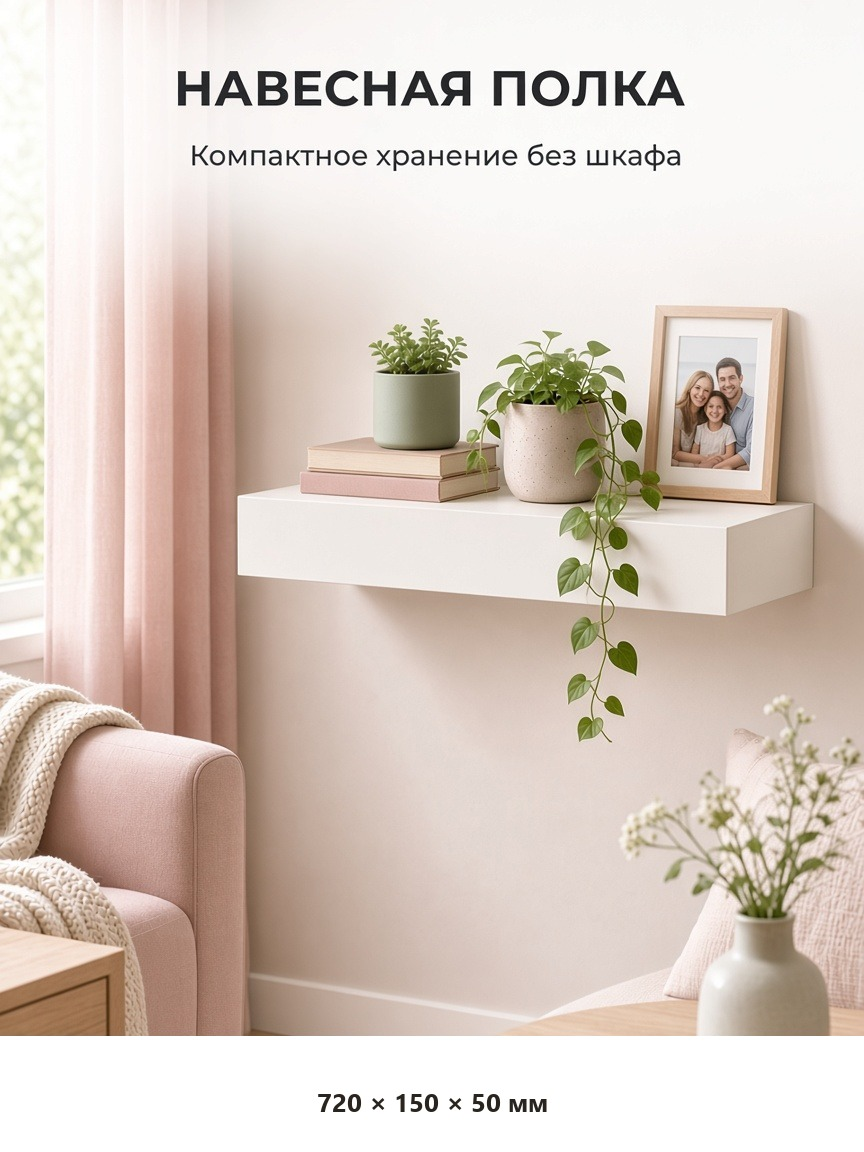
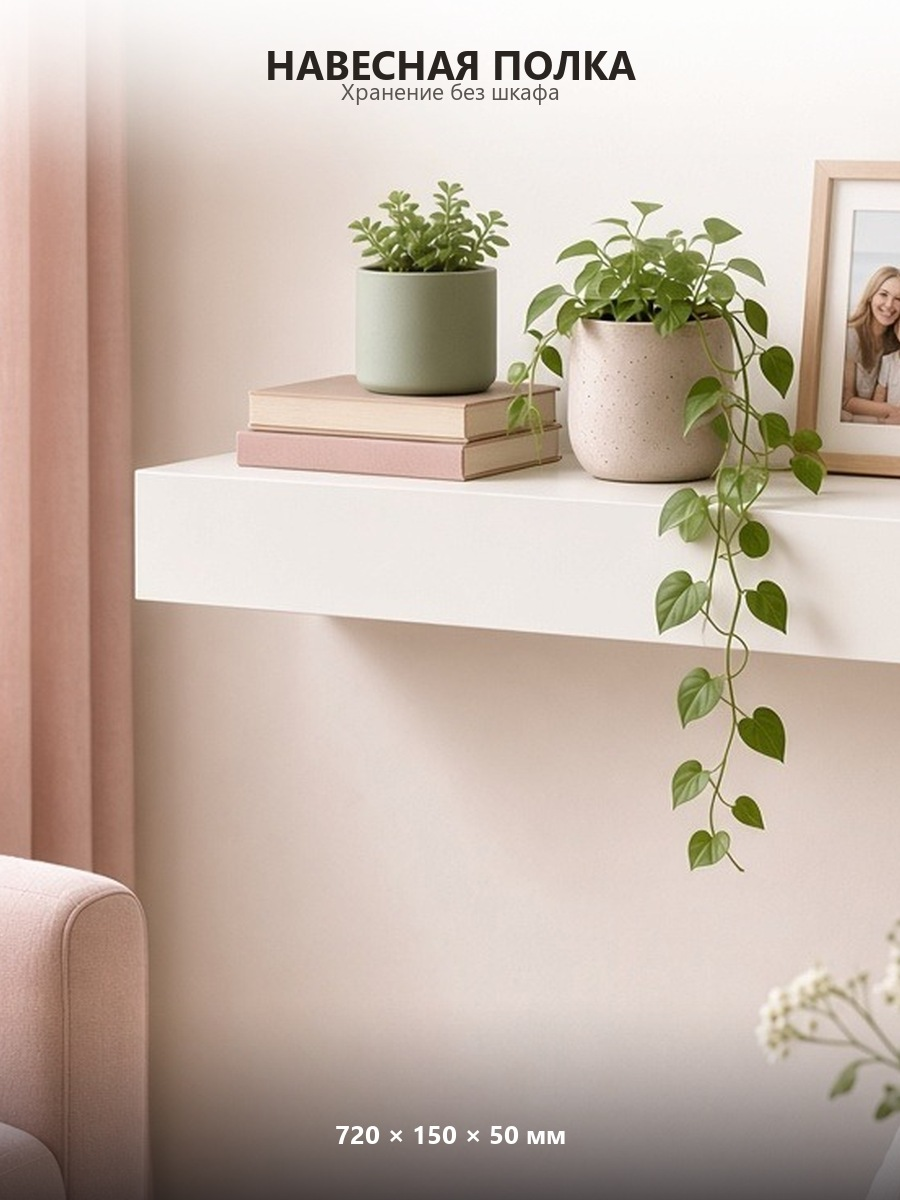
Full-bleed marketplace covers with soft bottom gradients.
Replace heavy text plates with photo-led covers and light scrims for title readability.

diff --git a/scripts/mp_layout_kit/rebuild_covers_fullbleed.py b/scripts/mp_layout_kit/rebuild_covers_fullbleed.py
@@ -1,0 +1,204 @@
+"""Rebuild marketplace covers: full-bleed photo + soft 15–18% bottom gradient (no heavy plates)."""
+from __future__ import annotations
+
+import json
+from pathlib import Path
+
+from PIL import Image, ImageDraw, ImageFont, ImageFilter
+
+from common import IMG, W, H, fnt, fit_cover, save_jpg, save_png, text_center
+
+COPY = json.loads(Path(__file__).with_name("copy.ru.json").read_text(encoding="utf-8"))
+
+# Bottom gradient height as fraction of canvas (10–20% target)
+GRAD_H = int(H * 0.17)
+
+
+def soft_bottom_gradient(base: Image.Image, strength: int = 200) -> Image.Image:
+    """Darken only the lower strip — photo stays full-bleed."""
+    out = base.convert("RGBA")
+    ov = Image.new("RGBA", (W, H), (0, 0, 0, 0))
+    y0 = H - GRAD_H
+    draw = ImageDraw.Draw(ov)
+    for i in range(GRAD_H):
+        t = i / max(1, GRAD_H - 1)
+        # ease-in: mostly transparent until last half
+        a = int(strength * (t ** 1.35))
+        draw.line((0, y0 + i, W, y0 + i), fill=(18, 16, 20, a))
+    return Image.alpha_composite(out, ov)
+
+
+def soft_top_scrim(base: Image.Image, height: int = 160, strength: int = 140) -> Image.Image:
+    """Lighten/darken top for title readability on busy photos."""
+    out = base.convert("RGBA")
+    ov = Image.new("RGBA", (W, H), (0, 0, 0, 0))
+    draw = ImageDraw.Draw(ov)
+    for i in range(height):
+        t = 1 - i / max(1, height - 1)
+        a = int(strength * (t ** 1.2))
+        draw.line((0, i, W, i), fill=(255, 255, 255, a))
+    return Image.alpha_composite(out, ov)
+
+
+def draw_bottom_copy(im: Image.Image, title: str, sub: str, title_size=42, sub_size=24):
+    draw = ImageDraw.Draw(im)
+    ft = fnt(title_size, True)
+    fs = fnt(sub_size, False)
+    tb = draw.textbbox((0, 0), title, font=ft)
+    sb = draw.textbbox((0, 0), sub, font=fs)
+    tw, th = tb[2] - tb[0], tb[3] - tb[1]
+    sw, sh = sb[2] - sb[0], sb[3] - sb[1]
+    gap = 12
+    block = th + gap + sh
+    y0 = H - GRAD_H
+    ty = y0 + int(GRAD_H * 0.28)
+    if ty + block > H - 28:
+        ty = H - 28 - block
+    draw.text(((W - tw) / 2, ty), title, font=ft, fill=(255, 255, 255))
+    draw.text(((W - sw) / 2, ty + th + gap), sub, font=fs, fill=(236, 232, 238))
+    return im
+
+
+def draw_top_copy(im: Image.Image, title: str, sub: str, title_size=40, sub_size=22, fill=(42, 36, 32), sub_fill=(90, 85, 80)):
+    draw = ImageDraw.Draw(im)
+    ft = fnt(title_size, True)
+    fs = fnt(sub_size, False)
+    tb = draw.textbbox((0, 0), title, font=ft)
+    sb = draw.textbbox((0, 0), sub, font=fs)
+    tw, th = tb[2] - tb[0], tb[3] - tb[1]
+    sw = sb[2] - sb[0]
+    draw.text(((W - tw) / 2, 36), title, font=ft, fill=fill)
+    draw.text(((W - sw) / 2, 36 + th + 10), sub, font=fs, fill=sub_fill)
+    return im
+
+
+def crop_above_dark_bar(im: Image.Image, dark_thresh: float = 95.0, min_y_frac: float = 0.55) -> Image.Image:
+    """Cut off a dark footer plate; return upper photo content."""
+    import numpy as np
+
+    arr = np.asarray(im.convert("RGB"))
+    h = arr.shape[0]
+    means = arr.mean(axis=(1, 2))
+    cut = h
+    for y in range(int(h * min_y_frac), h):
+        if means[y] < dark_thresh and means[min(y + 15, h - 1)] < dark_thresh:
+            cut = y
+            break
+    if cut >= h - 40:
+        cut = int(h * 0.78)
+    return im.crop((0, 0, im.size[0], cut))
+
+
+def crop_between_white_bars(im: Image.Image) -> Image.Image:
+    """Shelf-style: white header + footer → keep middle lifestyle."""
+    import numpy as np
+
+    arr = np.asarray(im.convert("RGB"))
+    h, w = arr.shape[:2]
+    means = arr.mean(axis=(1, 2))
+    std = arr.std(axis=(1, 2))
+    # photo rows have higher std
+    photo_ys = [y for y in range(h) if std[y] > 18 and means[y] < 235]
+    if not photo_ys:
+        return im
+    y0, y1 = photo_ys[0], photo_ys[-1]
+    # pad a little
+    y0 = max(0, y0 - 5)
+    y1 = min(h, y1 + 5)
+    return im.crop((0, y0, w, y1))
+
+
+def rebuild_poncho():
+    c = COPY["case3_poncho"]["01_cover"]
+    # Prefer clean lifestyle trial; strip its footer if present
+    src = Image.open(IMG / "case3" / "01_lifestyle_trial.png").convert("RGB")
+    src = crop_above_dark_bar(src, dark_thresh=110, min_y_frac=0.62)
+    base = fit_cover(src, (W, H))
+    base = soft_bottom_gradient(base, strength=195).convert("RGB")
+    draw_bottom_copy(base, c["title"].upper(), c["sub"], title_size=44, sub_size=25)
+    save_jpg(base, IMG / "case3" / "01_cover.jpg", quality=93)
+    print("poncho cover")
+
+
+def rebuild_shelf():
+    c = COPY["case2_shelf"]["01_cover"]
+    # Prefer pre-text lifestyle band from git-era cover if present; else crop current
+    src = Image.open(IMG / "case2" / "01_cover.jpg").convert("RGB")
+    # Tight crop: exclude top/bottom letterboxing + any baked captions
+    sw, sh = src.size
+    mid = src.crop((int(sw * 0.02), int(sh * 0.18), int(sw * 0.98), int(sh * 0.82)))
+    base = fit_cover(mid, (W, H))
+    base = soft_top_scrim(base, height=170, strength=175)
+    base = soft_bottom_gradient(base, strength=175).convert("RGB")
+    draw_top_copy(base, c["title"].upper(), c["sub"], title_size=40, sub_size=23)
+    draw = ImageDraw.Draw(base)
+    dims = c["dims"]
+    fd = fnt(26, True)
+    bb = draw.textbbox((0, 0), dims, font=fd)
+    dw = bb[2] - bb[0]
+    dy = H - int(GRAD_H * 0.42)
+    draw.text(((W - dw) / 2, dy), dims, font=fd, fill=(255, 255, 255))
+    save_jpg(base, IMG / "case2" / "01_cover.jpg", quality=93)
+    print("shelf cover")
+
+
+def rebuild_chair():
+    c = COPY["case1_chair"]["01_cover"]
+    src = Image.open(IMG / "case1" / "01_cover_interior.png").convert("RGB")
+    src = crop_above_dark_bar(src, dark_thresh=100, min_y_frac=0.68)
+    base = fit_cover(src, (W, H))
+    base = soft_bottom_gradient(base, strength=200).convert("RGB")
+    # title + sub from locked copy (not the long baked line)
+    draw_bottom_copy(base, c["title"], c["sub"], title_size=36, sub_size=23)
+    save_png(base, IMG / "case1" / "01_cover_interior.png")
+    print("chair cover")
+
+
+def rebuild_blender():
+    # Restore clean product plate from git before our redraw, then rebuild once
+    import subprocess, io
+
+    try:
+        raw = subprocess.check_output(
+            ["git", "show", "420890e:public/images/marketplace/case5/01_cover.jpg"],
+            cwd=str(IMG.parents[2]),
+        )
+        src = Image.open(io.BytesIO(raw)).convert("RGB")
+    except Exception:
+        src = Image.open(IMG / "case5" / "01_cover.jpg").convert("RGB")
+    src = crop_above_dark_bar(src, dark_thresh=80, min_y_frac=0.72)
+    # Cover old badge zone with bg sample, then redraw once
+    sw, sh = src.size
+    bg = src.getpixel((sw // 2, 40))
+    d0 = ImageDraw.Draw(src)
+    d0.ellipse((20, 20, 200, 200), fill=bg)
+    base = fit_cover(src, (W, H))
+    base = soft_bottom_gradient(base, strength=185).convert("RGB")
+    draw = ImageDraw.Draw(base)
+    cx, cy, r = 90, 90, 58
+    draw.ellipse((cx - r, cy - r, cx + r, cy + r), outline=(70, 60, 50), width=3)
+    draw.ellipse((cx - r + 6, cy - r + 6, cx + r - 6, cy + r - 6), outline=(70, 60, 50), width=2)
+    lab = "400 мл"
+    fb = fnt(22, True)
+    bb = draw.textbbox((0, 0), lab, font=fb)
+    draw.text((cx - (bb[2] - bb[0]) / 2, cy - (bb[3] - bb[1]) / 2 - 2), lab, font=fb, fill=(50, 42, 36))
+    draw_bottom_copy(base, "СМУЗИ ЗА 30 СЕК", "MIXORA · портативный блендер", title_size=36, sub_size=22)
+    save_jpg(base, IMG / "case5" / "01_cover.jpg", quality=93)
+    print("blender cover")
+
+
+def rebuild_perfume():
+    """Already photo-led; only soften if a hard plate exists — leave pyramid layout intact."""
+    print("perfume cover: skip (already full-bleed product)")
+
+
+def main():
+    rebuild_poncho()
+    rebuild_shelf()
+    rebuild_chair()
+    rebuild_blender()
+    rebuild_perfume()
+
+
+if __name__ == "__main__":
+    main()
